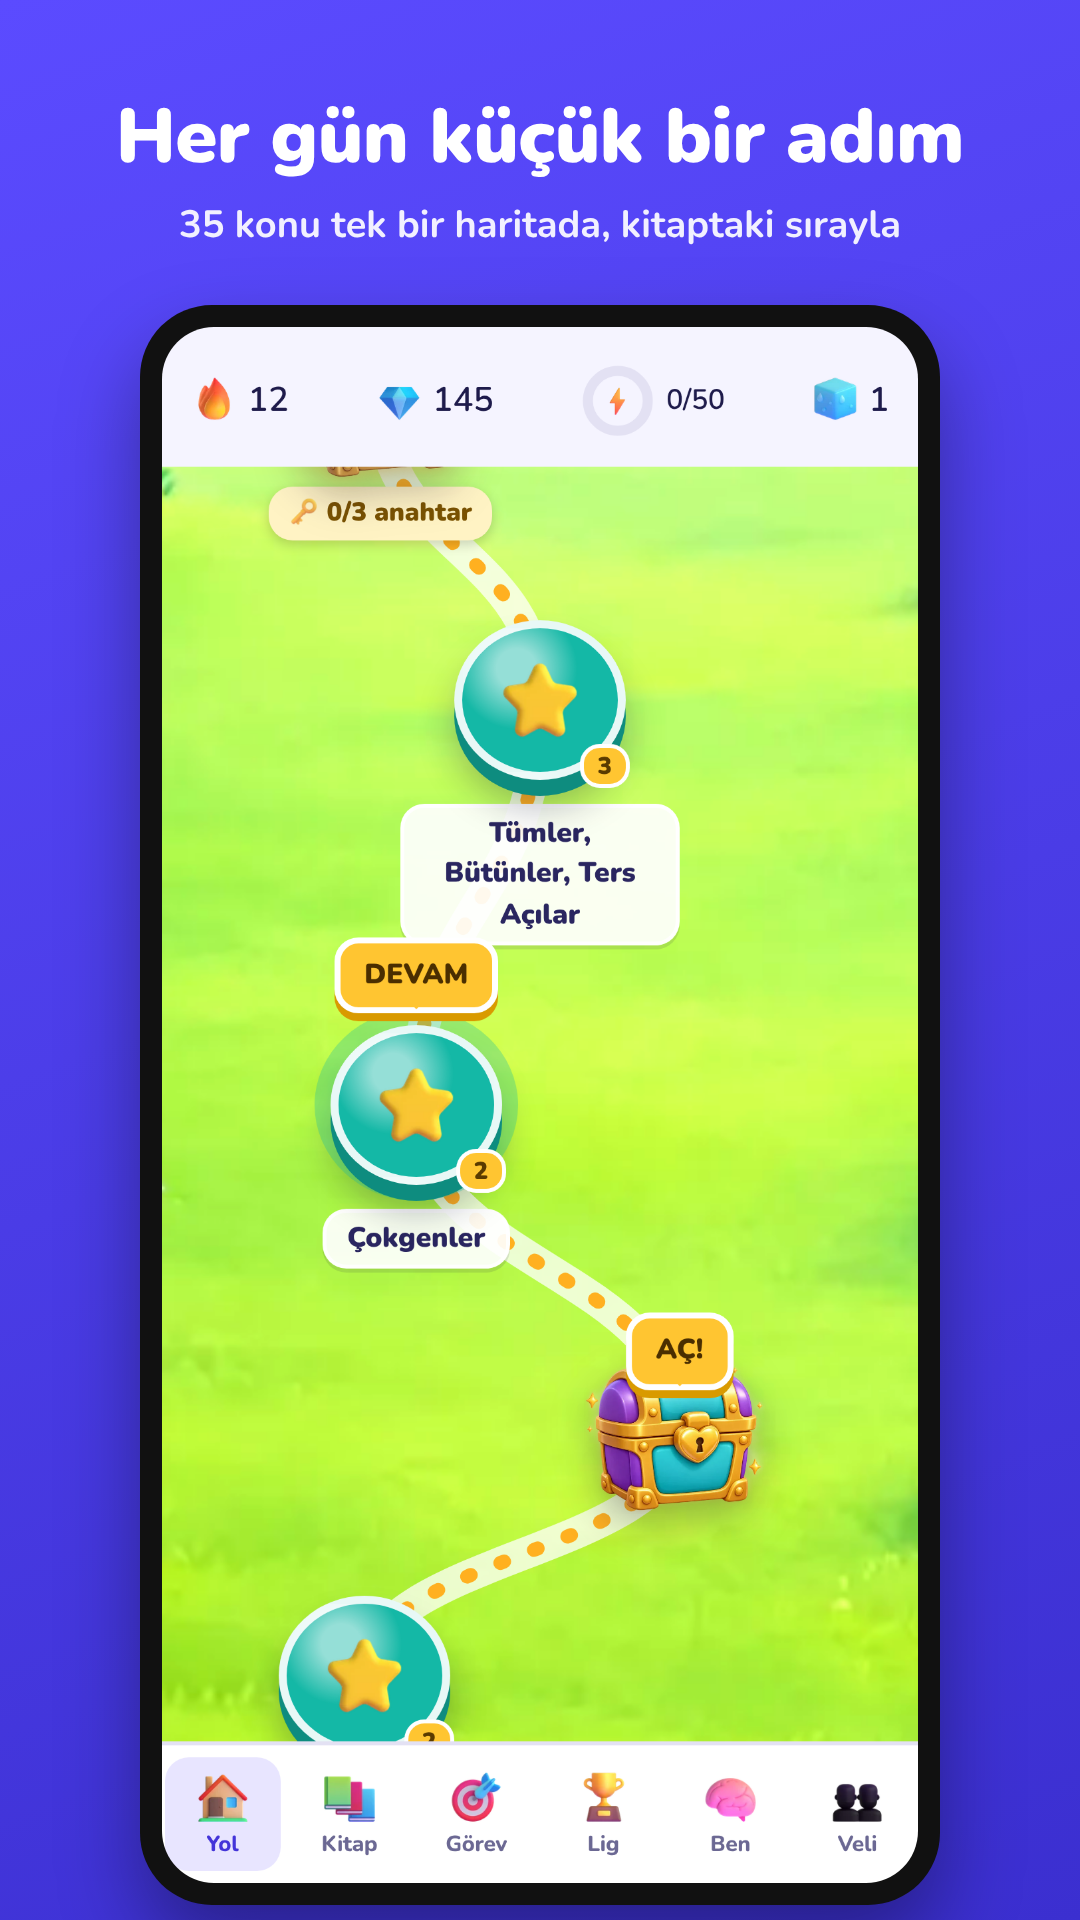
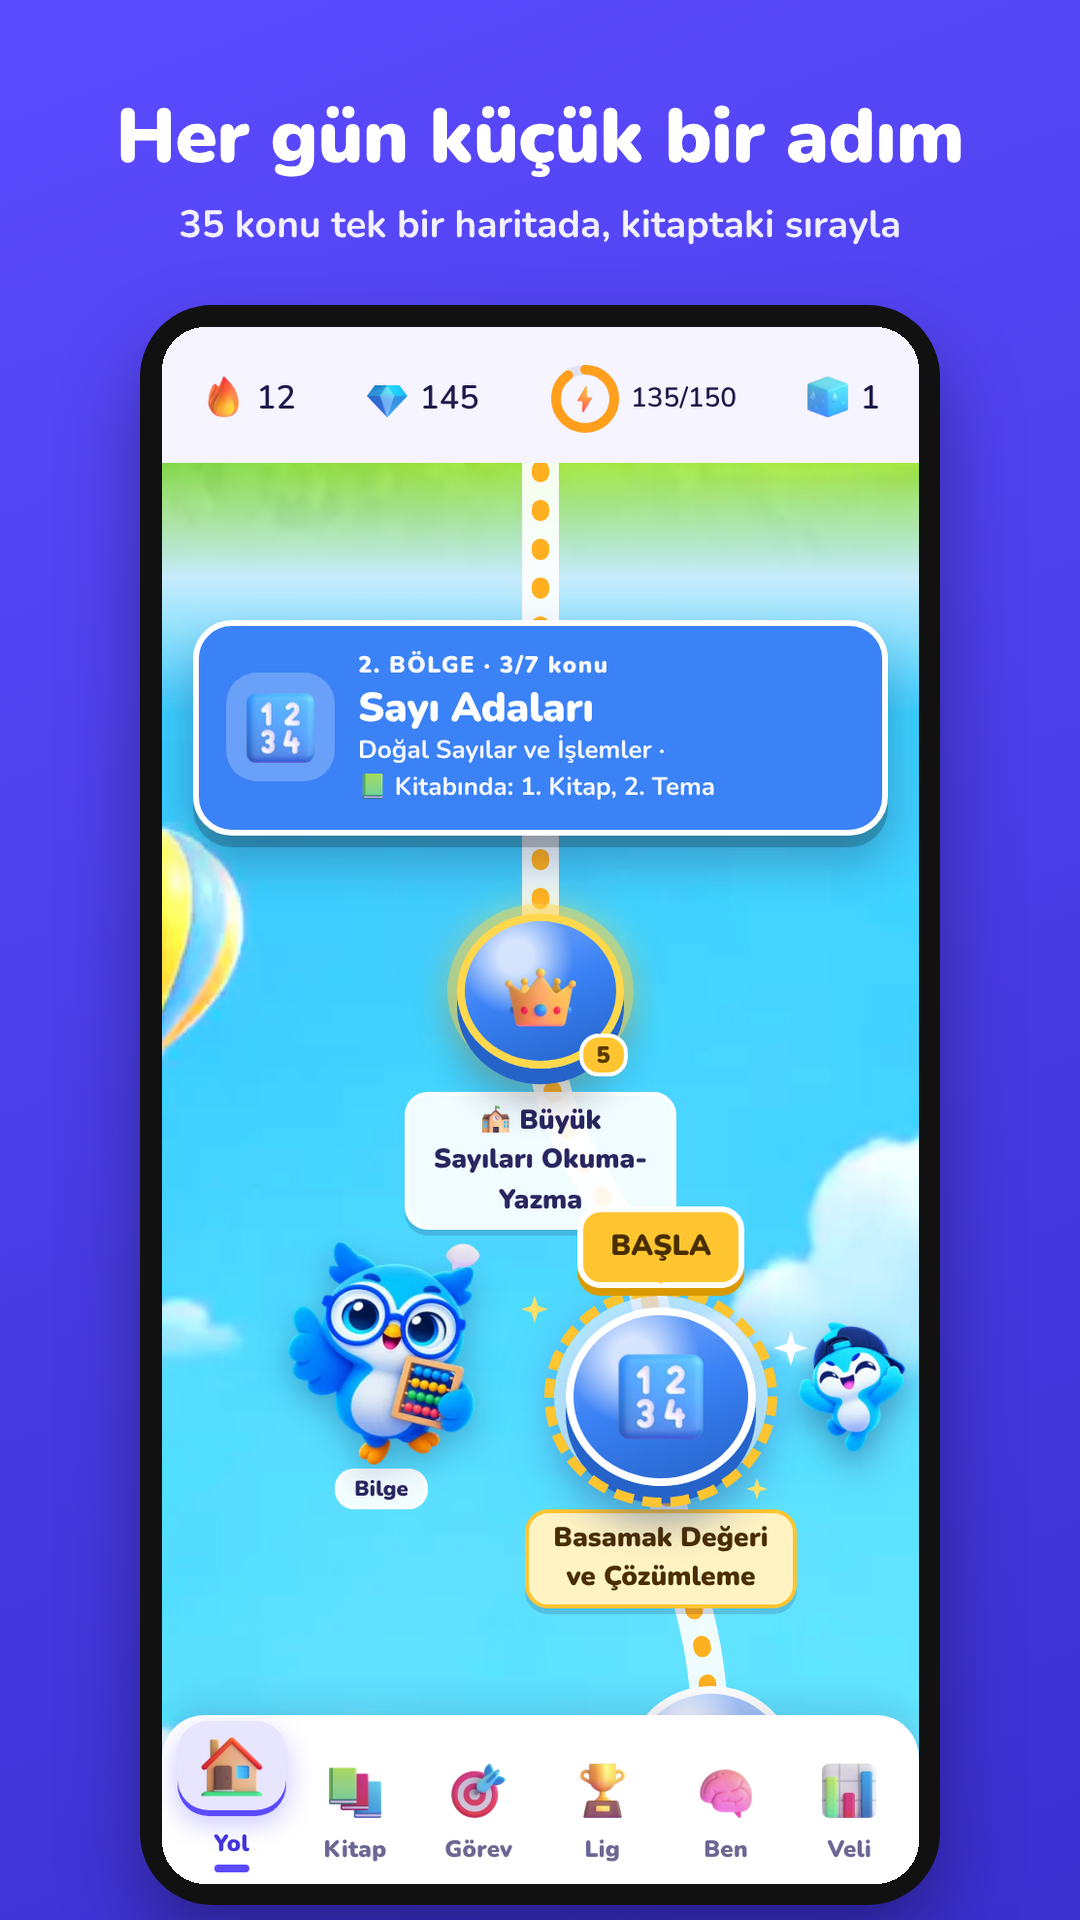
Beceri incelemesi: DB hız düzeltmeleri, Play açıklaması ve 2 ekran görüntüsü, takılan testlerin kökü (file:// → yerel http)
Claude-Session: https://claude.ai/code/session_01EtwPP3dVDV6i6X6M2rXfF3

diff --git a/docs/ogretmen.html b/docs/ogretmen.html
@@ -4520,7 +4520,7 @@ body.ogretmen{background:var(--bg);color:var(--ink);font-family:Nunito,system-ui
    ========================================================= */
 (function () {
   const G = window, U = G.MY_U, GEN = G.MY_GEN, MIS = G.MY_MIS, HATA = G.MY_HATA, ATOLYE = G.MY_ATOLYE, CUR = G.MY_CUR;
-  const SURUM = '2026-11-16 4edb4e4', CFG = G.MY_CONFIG || {}, KOD = (new URLSearchParams(location.search).get('kod') || '').trim();
+  const SURUM = '2026-11-21 6022509', CFG = G.MY_CONFIG || {}, KOD = (new URLSearchParams(location.search).get('kod') || '').trim();
   const KAYIT = 'ogr_inceleme_' + KOD, el = document.getElementById('panel');
   const esc = (s) => String(s == null ? '' : s).replace(/[&<>"]/g, (c) => ({ '&': '&amp;', '<': '&lt;', '>': '&gt;', '"': '&quot;' }[c]));
 

diff --git a/test/e2e_profil.py b/test/e2e_profil.py
@@ -4,7 +4,8 @@ import asyncio, json, re, pathlib, os
 from playwright.async_api import async_playwright
 OUT = str(pathlib.Path(__file__).resolve().parent / 'shots') + '/'
 os.makedirs(OUT, exist_ok=True)
-APP = (pathlib.Path(__file__).resolve().parent.parent / 'dist' / 'index.html').as_uri()
+import sys; sys.path.insert(0, str(pathlib.Path(__file__).resolve().parent)); from yerel import adres
+APP = adres()  # file:// yerine http: yenilemede localStorage kaybolmasın (yerel.py)
 KAT = {}; OLAY = []; HATA = []
 def sunucu(fn, a):
     if fn == 'pilot_katil': KAT[a['p_cihaz']] = a.get('p_grup'); return {'ok': True}
@@ -34,7 +35,7 @@ async def main():
             body = sunucu(fn, json.loads(route.request.post_data or '{}')) if fn.startswith('pilot_') else None
             await route.fulfill(status=200, content_type='application/json', body=json.dumps(body))
         async def sayfa():
-            c = await b.new_context(viewport={'width': 390, 'height': 844}, is_mobile=True, has_touch=True)
+            c = await b.new_context(service_workers='block', viewport={'width': 390, 'height': 844}, is_mobile=True, has_touch=True)
             await c.add_init_script("try{localStorage.setItem('my_vitrin_gecti','1')}catch(e){}")  # vitrin (tanıtım) testlerde atlanır
             g = await c.new_page(); g.on('pageerror', lambda e: errs.append(str(e)))
             await g.route(re.compile(r'.*/rest/v1/rpc/.*'), yol); await g.route(re.compile(r'.*cdn\.jsdelivr\.net.*'), lambda r: r.abort())
@@ -120,14 +121,14 @@ async def main():
         # Bağlantısız tek çocuklu telefonda seçici açılmaz (yukarıda), Ben başlığında değiştir düğmesi
         await ben(d); ok(await d.query_selector('.prof-top [data-act=oyuncu-ac], h2 [data-act=oyuncu-ac]') is not None, 'Ben başlığında oyuncu değiştir düğmesi')
         # Vitrin (tanıtım): ilk kez gelen ziyaretçiye görünür; başla deyince kayda geçer ve bir daha gelmez; pilot bağlantısında görünmez
-        v = await (await b.new_context(viewport={'width': 390, 'height': 844})).new_page(); await v.goto(APP); await v.wait_for_timeout(700)
+        v = await (await b.new_context(service_workers='block', viewport={'width': 390, 'height': 844})).new_page(); await v.goto(APP); await v.wait_for_timeout(700)
         ok(await v.query_selector('.vt') is not None, 'İlk ziyarette vitrin görünür')
         await v.click('[data-act=vt-basla] >> nth=0'); await v.wait_for_timeout(300)
         ok(await v.query_selector('[data-act=pd-katil]') is not None, 'Hemen başla → önce veliye tek izin ekranı')
         await v.click('[data-act=pd-hayir]'); await v.wait_for_timeout(200)
         ok(await v.query_selector('[data-act=onb-next]') is not None, 'İzin ekranından sonra kayıt')
         await v.reload(); await v.wait_for_timeout(700); ok(await v.query_selector('.vt') is None, 'Bir kez geçilen vitrin yeniden gelmez')
-        v2 = await (await b.new_context(viewport={'width': 390, 'height': 844})).new_page(); await v2.goto(APP + '?pilot=VT1'); await v2.wait_for_timeout(700)
+        v2 = await (await b.new_context(service_workers='block', viewport={'width': 390, 'height': 844})).new_page(); await v2.goto(APP + '?pilot=VT1'); await v2.wait_for_timeout(700)
         ok(await v2.query_selector('.vt') is None and await v2.query_selector('[data-act=pd-katil]') is not None, 'Pilot bağlantısında vitrin yok, veli karşılaması gelir')
         ok(not errs, f'Sayfa hatası yok {errs[:3]}')
         await b.close()

diff --git a/test/e2e_pilot.py b/test/e2e_pilot.py
@@ -5,7 +5,8 @@ import asyncio, json, re, pathlib, os
 from playwright.async_api import async_playwright
 OUT = str(pathlib.Path(__file__).resolve().parent / 'shots') + '/'
 os.makedirs(OUT, exist_ok=True)
-APP = (pathlib.Path(__file__).resolve().parent.parent / 'dist' / 'index.html').as_uri()
+import sys; sys.path.insert(0, str(pathlib.Path(__file__).resolve().parent)); from yerel import adres
+APP = adres()  # file:// yerine http: yenilemede localStorage kaybolmasın (yerel.py)
 KAT = {}; OLAY = []; HAM = []; HATA = []
 TURLER = {'acilis', 'ders_basla', 'cevap', 'ders_bitti', 'ders_birak', 'kart', 'test'}
 def sunucu(fn, a):
@@ -54,7 +55,7 @@ async def cevapla(pg):
 async def main():
     async with async_playwright() as p:
         b = await p.chromium.launch()
-        ctx = await b.new_context(viewport={'width': 390, 'height': 844}, is_mobile=True, has_touch=True)
+        ctx = await b.new_context(service_workers='block', viewport={'width': 390, 'height': 844}, is_mobile=True, has_touch=True)
         await ctx.add_init_script("try{localStorage.setItem('my_vitrin_gecti','1')}catch(e){}")  # vitrin (tanıtım) testlerde atlanır
         pg = await ctx.new_page(); errs = []
         pg.on('pageerror', lambda e: errs.append(str(e)))
@@ -152,7 +153,7 @@ async def main():
         ok(not OLAY and not [h for h in HAM if '"p_olaylar": []' not in h], 'Ayrıldıktan sonra hiçbir olay gönderilmez')
         # ---- Davet bağlantısı (04.11.2026): …/?pilot=5a ile ilk açılış ----
         async def yeni_sayfa():
-            c = await b.new_context(viewport={'width': 390, 'height': 844}, is_mobile=True, has_touch=True)
+            c = await b.new_context(service_workers='block', viewport={'width': 390, 'height': 844}, is_mobile=True, has_touch=True)
             await c.add_init_script("try{localStorage.setItem('my_vitrin_gecti','1')}catch(e){}")  # vitrin (tanıtım) testlerde atlanır
             g = await c.new_page(); g.on('pageerror', lambda e: errs.append(str(e)))
             await g.route(re.compile(r'.*/rest/v1/rpc/.*'), yol); await g.route(re.compile(r'.*cdn\.jsdelivr\.net.*'), lambda r: r.abort())
@@ -178,8 +179,9 @@ async def main():
         await btn.click(); await d.wait_for_timeout(1300)
         ok(await d.evaluate("window.MY_APP.view==='lesson' && window.MY_APP.ses.mode==='olcme' && window.MY_APP.ses.form==='on'"), 'Kısa test (başlangıç formu) başladı')
         n = 0
-        while await d.evaluate("window.MY_APP.view") == 'lesson' and n < 25: await cevapla(d); n += 1
-        await d.wait_for_timeout(2000)
+        while await d.evaluate("window.MY_APP.view") == 'lesson' and n < 60: await cevapla(d); n += 1  # kutlama sahnesi bir dokunuşu yutabilir; sınır cömert
+        # Son cevaptan sonra seri kutlaması (EFSANE sahnesi, en çok ~4,2 sn) bitince ders sonu açılır; http'de video gerçekten oynar
+        await d.wait_for_function("window.MY_APP.view !== 'lesson'", timeout=12000); await d.wait_for_timeout(2000)
         ok(any(o['tur'] == 'test' and o['veri']['form'] == 'on' for o in OLAY), 'Test sonucu sunucuya gitti')
         await d.evaluate("(()=>{const a=window.MY_APP;a.view='home';a.tab='yol';window.MY_APP_RENDER();})()"); await d.wait_for_timeout(300)
         ok(await d.query_selector('[data-act=olcme]') is None, 'Test bitince haritada test kartı kalmaz')

diff --git a/test/e2e_eposta.py b/test/e2e_eposta.py
@@ -1,7 +1,8 @@
 # Haftalık rapor e-postası: Veli alanındaki kart, doğrulama, rapor yükleme, durdurma (sahte sunucuyla).
 import asyncio, json, pathlib, re
 from playwright.async_api import async_playwright
-APP = (pathlib.Path(__file__).resolve().parent.parent / 'dist' / 'index.html').as_uri()
+import sys; sys.path.insert(0, str(pathlib.Path(__file__).resolve().parent)); from yerel import adres
+APP = adres()  # file:// yerine http: yenilemede localStorage kaybolmasın (yerel.py)
 SAYFA = (pathlib.Path(__file__).resolve().parent.parent / 'dist' / 'eposta' / 'index.html').as_uri()
 HATA = []
 def ok(c, m):
@@ -46,7 +47,7 @@ async def yol(route):
 async def main():
     async with async_playwright() as p:
         b = await p.chromium.launch(); errs = []
-        c = await b.new_context(viewport={'width': 390, 'height': 844})
+        c = await b.new_context(service_workers='block', viewport={'width': 390, 'height': 844})
         await c.add_init_script("try{localStorage.setItem('my_vitrin_gecti','1')}catch(e){}")
         pg = await c.new_page(); pg.on('pageerror', lambda e: errs.append(str(e)))
         await pg.route(re.compile(r'.*/functions/v1/veli-eposta.*'), yol)

diff --git a/test/yerel.py b/test/yerel.py
@@ -1,0 +1,15 @@
+# Testler için yerel sunucu (17.11.2026).
+# Neden: file:// sayfası yenilenince Chromium bazen localStorage'ı tamamen boş getiriyordu (yenileme yeni bir
+# süreçte açılınca file:// kaynağının depolaması taşınmıyor). Kayıt silinmiş görünüyor, e2e_profil ve e2e_pilot
+# yaklaşık her iki çalıştırmada bir takılıyordu. Gerçek kullanıcı https ile açar; testler de http ile açmalı.
+# Kullanım: from yerel import adres; APP = adres()  · bağlamda service_workers='block' (çevrimdışı katman araya girmesin)
+import functools, http.server, pathlib, threading
+
+class _Sessiz(http.server.SimpleHTTPRequestHandler):
+    def log_message(self, *a): pass
+
+def adres(klasor=None):
+    kok = pathlib.Path(klasor) if klasor else pathlib.Path(__file__).resolve().parent.parent / 'dist'
+    srv = http.server.ThreadingHTTPServer(('127.0.0.1', 0), functools.partial(_Sessiz, directory=str(kok)))
+    threading.Thread(target=srv.serve_forever, daemon=True).start()
+    return f'http://127.0.0.1:{srv.server_address[1]}/index.html'

diff --git a/CLAUDE.md b/CLAUDE.md
@@ -206,7 +206,7 @@ E-posta **içeriği kilitlemek için değil**, veliye somut bir karşılık (her
 - **Yeni sürüm uyarısı (ilk hâli):** `build.py` her yayında `sw.js` sonuna uygulama özetini yazar (`// uygulama sürümü: …`), yani **sw.js'deki önbellek adını elle artırmak artık gerekmiyor**. Tarayıcı yeni service worker'ı kurup devralınca (`controllerchange`) ders dışında altta «✨ Yeni sürüm hazır · Yenile · ✕» şeridi; ders ve ders sonu ekranında gösterilmez. Yenile önce bekleyen yedek/pilot/istatistik gönderimlerini başlatır. Uygulama arka plandan dönünce güncelleme yoklanır.
 - **Erişilebilirlik** (`test/e2e_erisim.py`, axe-core 4.10.2 ile WCAG 2.1 AA, açık + koyu tema, hareket azaltılmış; 13 ekran: tanıtım, izin, karşılama, kayıt sorusu, harita, kitap, görevler, lig, ben/ayarlar, veli kapısı, veli raporu, soru, yanlış cevap açıklaması). Gerekir: `npm i --prefix test axe-core@4.10.2` (`test/node_modules` depoya girmez). Düzeltilenler: yazı tonları (`--brand-ink`, `--accent-ink`, `--ok-ink`, `--bad-ink`, `--gem-ink`, `--warm-bg`; açık ve koyu tema ayrı) ve bütün `color:var(--brand|accent-d|ok-d|bad-d|gem)` yazıları bunlara geçti; beyaz yazılı kitap bantları ve aylık görev bandı koyulaştı; WhatsApp/Telegram düğmeleri koyu ton; kilitli lig kademesi ve kazanılmamış rozette yalnız simge soluk, yazı okunur; koyu temada görev çubuğu dolgusu koyu altın; kayıt ilerleme çubuğuna ad; veli şifresi alanlarına etiket. **Yeni renk ya da ekran eklerken bu test 0 hata vermeli.**
 - **Veli şifresi artık `type=password` değil** (`.pin-gizli`, `-webkit-text-security: disc`, `autocomplete=off`): Chrome 4 rakamlı çocuk kapısını hesap şifresi sanıp «Şifre kaydedilsin mi?» diye soruyordu (proje sahibinin ekran görüntüsü).
-- Not: e2e testlerinde `file://` sayfası yeniden yüklenirken Chromium'un localStorage'ı ara sıra kaybettiği görüldü (e2e_pilot, e2e_profil bazen takılır, yeniden çalıştırınca geçer); uygulama hatası değil.
+- **Takılan testler çözüldü (17–21.11.2026):** kök neden: `file://` sayfası yenilenince Chromium localStorage'ı bazen **tamamen** boş getiriyordu (kayıt silinmiş görünüyordu; e2e_profil/e2e_pilot/e2e_eposta yaklaşık her iki çalıştırmada bir takılıyordu). Bu üç test artık `test/yerel.py` ile sayfayı yerel http sunucusundan açar (`APP = adres()`, bağlamda `service_workers='block'`); 5–6 ardışık çalıştırmada hepsi geçti. **Sayfayı yenileyen (`reload`) yeni testler de `yerel.adres()` kullanmalı.** e2e_pilot'ta ayrıca: http'de kutlama sahnesi gerçekten oynar ve bir dokunuşu yutabilir; cevap döngüsü sınırı 60, ders sonu `wait_for_function` ile beklenir. Not: e2e_mobil'in kaydırma ölçümü (≥40 kare/sn) 2 çekirdekli ajan ortamında 26–28 kare/sn çıkabiliyor; uygulama kodu 16.11'de geçtiği hâlinden değişmediyse bu ortam yavaşlığıdır.
 
 ### 3.13 Görsel tazeleme, bilgisayar düzeni, güven sayfaları (07.11.2026, ezelingo.com karşılaştırmasından sonra)
 Proje sahibi ezelingo.com ile karşılaştırma istedi, sonra "sormadan sırayla yap" dedi. Yapılanlar:
@@ -248,6 +248,7 @@ Proje sahibi Cloudflare'in açık kaynak `security-audit-skill` becerisini (gith
   - `veli-eposta` (sürüm 2): önce sahiplik ve cihaz sınırı, sonra sayaçlar; adres sınırı kök adrese (+etiket ve Gmail noktaları yok sayılır); uygulama geneli günde en çok 300 doğrulama e-postası.
   - Gece temizliği (pg_cron `guvenlik-temizle`, 03.41): `ag_sayac` 3 günden, `istat_*` 400 günden eski satırlar silinir.
 - **Açık kalanlar:** bütün IP sınırları `x-forwarded-for`'un ilk değerine dayanır; Supabase ağ geçidinin bunu nasıl ilettiği doğrulanmadı. `cevaplar` tablosuna giriş yapmış veli sınırsız satır ekleyebilir (eski düzlem; tek hesap var). Proje sahibi 16.11.2026'da Authentication → «Allow new users to sign up» ayarını kapattı (yeni hesap açılamaz; eski düzlemde yalnız mevcut tek hesap kaldı).
+- **Hız (17.11.2026, `hiz_2026_11.sql`, canlıda):** 4 bağlantı sütununa dizin, eski giriş düzleminin 4 erişim kuralında `(select auth.uid())`, `yonetici_kayit`a birincil anahtar. Supabase performans denetiminde yalnız «kullanılmamış dizin» bilgileri kaldı (yeni dizinler, veri azken normal).
 - Yeni bir anon RPC ya da edge function eklerken: girdiyi sunucuda biçimle sınırla, sayaçları satır kilidiyle ya da tek UPDATE ile artır, kişi başı sınır genel bütçeden küçük olsun, istemciye dönen her alanı ekranda `esc()` ile yaz.
 
 ### 3.10 İsimsiz soru istatistiği (06.11.2026, proje sahibinin isteği: "pilot şart değil, bağlanan herkes için")
@@ -565,6 +566,7 @@ Yeni kalıp eklerken: kitaptaki sorunun **matematiksel yapısını** çıkar (ne
 - Çevrimdışı katman yalnız uygulamanın kendi sayfasını (`/`, `/index.html`) çevrimdışı kopyaya yazar; önceden `ogretmen.html` ya da başka bir sayfa açılınca uygulamanın yerine geçebiliyordu (05.11.2026 düzeltildi).
 - Google Play: PWA'yı **Trusted Web Activity** olarak paketle (PWABuilder) veya Capacitor ile sar.
 - **Play paketi (09.11.2026):** kimlik doğrulaması tamam; öğretmen incelemesi ve pilot bitti. Paket adı `com.matematikyolu.app`, sürüm 1.0.0 (kod 1). `android/` Bubblewrap 1.27 ile üretilmiş TWA projesi (`twa-manifest.json`). **Yükleme anahtarı depoda YOK** (`matematikyolu-yukleme.jks`, takma ad `matematikyolu`; proje sahibinde, şifresiyle birlikte); SHA-256 `0D:4C:EB:A6:93:73:03:6B:62:2E:FA:4A:67:6D:20:08:69:46:6C:15:6C:17:DE:3E:ED:71:2D:F7:D9:21:4A:21`. `src/assetlinks.json` → `build.py` → `docs/.well-known/assetlinks.json`. Play App Signing anahtarı `3F:CA:D3:15:5C:5C:1D:2F:A0:E6:26:81:35:80:54:C3:C7:E3:3F:27:8C:68:69:49:68:9F:48:23:4B:47:93:2D` de listede (11.11.2026). **11.11.2026:** Play Console'da uygulama oluşturuldu (mağaza sayfası, bütün beyanlar, içerik derecelendirmesi, veri güvenliği, hedef kitle 9–12 + Öğretmen Onaylı programı); ilk .aab (1.0.0, kod 1) PWABuilder ile kullanıcının anahtarıyla imzalanıp kapalı test (Alpha, Türkiye) taslağına yüklendi. Sonraki sürümlerde sürüm kodu artırılmalı. Ajan ortamının ağı Android SDK/Gradle/Maven'a çıkamıyor; `.github/workflows/android.yml` imzasız .aab'ı `android-cikti` dalına koyar ama 09.11.2026'da GitHub hesabı faturalama sorunu yüzünden Actions işleri başlamıyordu. O yüzden ilk paket proje sahibi tarafından **PWABuilder** (pwabuilder.com → Android → aynı paket adı + «kendi anahtarım» ile bu .jks) üzerinden üretilir.
+- **Mağaza sayfası (17.11.2026, aso becerisiyle):** `magaza/PLAY_REHBER.md` tam açıklamasına «5. SINIF MATEMATİKTE NELERİ ÖĞRENİR?» bölümü eklendi (konu adları = velilerin aradığı kelimeler; doğal yoğunluk). `ekran_1_harita.png` ve `ekran_8b_veli.png` güncel arayüzle yeniden çekildi (gerçek motorla 12 günlük kullanım taklidi, eski görselin başlık/çerçevesine yapıştırıldı; betik geçiciydi). Play Console'a proje sahibi yükler. Arayüz değişince bu görseller de yenilenmeli.
 - Play Store'da dijital içerik satışında Google Play Faturalandırma kullanılmalıdır. Web'den satışta Türkiye'de çalışan ödeme altyapıları (ör. iyzico, PayTR) kullanılabilir.
 - Play Store "Aileler" politikaları ve çocuk uygulaması gereksinimleri yayın öncesi kontrol edilir.
 

diff --git a/magaza/PLAY_REHBER.md b/magaza/PLAY_REHBER.md
@@ -28,6 +28,16 @@ Kurallar 10.11.2026'da Google'ın yardım sayfalarından doğrulandı; Play Cons
 ```
 Matematik Yolu, 5. sınıf öğrencilerinin matematiği adım adım, oynar gibi öğrenmesi için hazırlandı. Maarif Modeli 5. sınıf matematik programındaki 35 konunun hepsi, ders kitabındaki sırayla tek bir haritada.
 
+5. SINIF MATEMATİKTE NELERİ ÖĞRENİR?
+• Geometri: nokta, doğru, ışın, çember ve daire, dikme ve paralel doğrular, açılar ve açıölçerle açı ölçme, tümler, bütünler ve ters açılar, çokgenler, üçgenler
+• Doğal sayılar: büyük sayıları okuma ve yazma, basamak değeri, karşılaştırma ve sıralama, toplama, çıkarma, çarpma ve bölme, yuvarlama ve tahmin, gerçek hayat problemleri
+• Çevre ve alan: dikdörtgenin çevresi ve alanı
+• Kesirler: kesir türleri, denk kesirler, ondalık gösterim, yüzde, kesirleri karşılaştırma
+• Veri ve grafik: istatistiksel araştırma, sıklık tablosu, sütun grafiği, daire grafiği, nokta grafiği
+• Cebirsel düşünme: eşitlik ve denge, işlem özellikleri, kare ve küp, işlem önceliği, sayı ve şekil örüntüleri, algoritma ve akış şeması
+• Olasılık: kesin, imkânsız ve mümkün olaylar, olasılık spektrumu
+Okulda o hafta işlenen konu haritada işaretlenir; çocuğunuz derste gördüğü konuyu aynı gün evde tekrar eder.
+
 NASIL ÇALIŞIR?
 • Kısa dersler: 6–10 soru, birkaç dakika. Her gün küçük bir adım.
 • Pi konuşur: Maskotumuz Pi soruları ve konu anlatımlarını sesli okur. Okumakta zorlanan çocuk da rahat çalışır.
